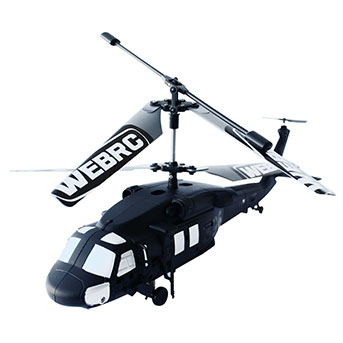
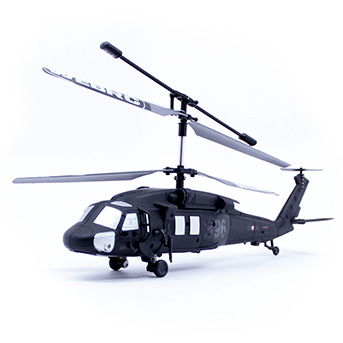
updated two pics of black hawk special ops

Changed region(s): [[0.0292, 0.0875, 0.9913, 0.9038], [0.8455, 0.7289, 0.8746, 0.758]]

diff --git a/black-hawk-special-ops.html b/black-hawk-special-ops.html
@@ -146,7 +146,7 @@ description: By designing a 3 channel remote control toy replica of the UH-60 Bl
 	<!-- Big Blackhawk Image -->
 	<hr>
 	<div class="big-image row-fluid">
-		<img id="xdroneimage" src="img/blackhawk/blackhawk-profile-700x450.jpg" alt="UH-60 Black Hawk toy remote control">
+		<img id="xdroneimage" src="img/black-hawk-special-ops/black-hawk-special-ops-profile-700x450.jpg" alt="UH-60 Black Hawk Special Ops RC Toy Helicopter">
 		<div class="span4 offset4">
 			<a href="#myModal" role="button" data-toggle="modal" class="btn btn-large btn-block btn-success" type="button" onClick="_gaq.push(['_trackEvent', 'I Want It Button', 'Clicked I Want It Button For Black Hawk Special Ops', 'I Want It Button Below Fold', 1, false]);">I Want It</a>
 		</div>
